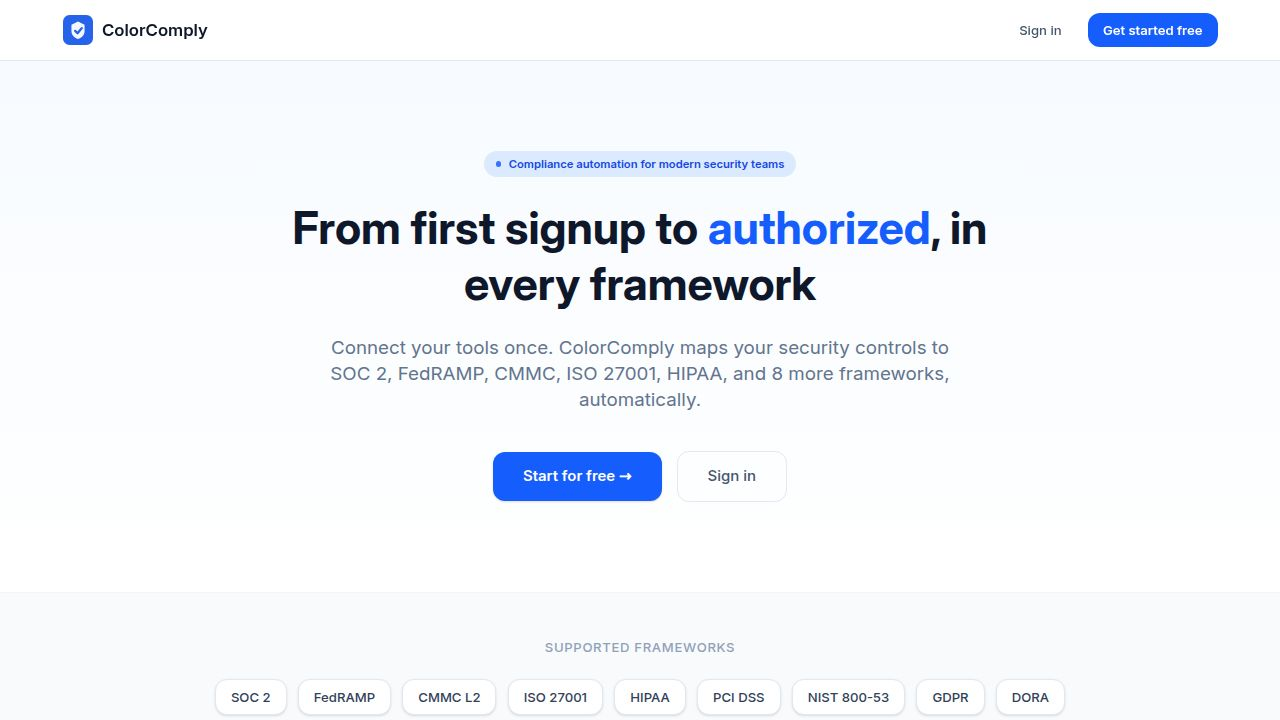
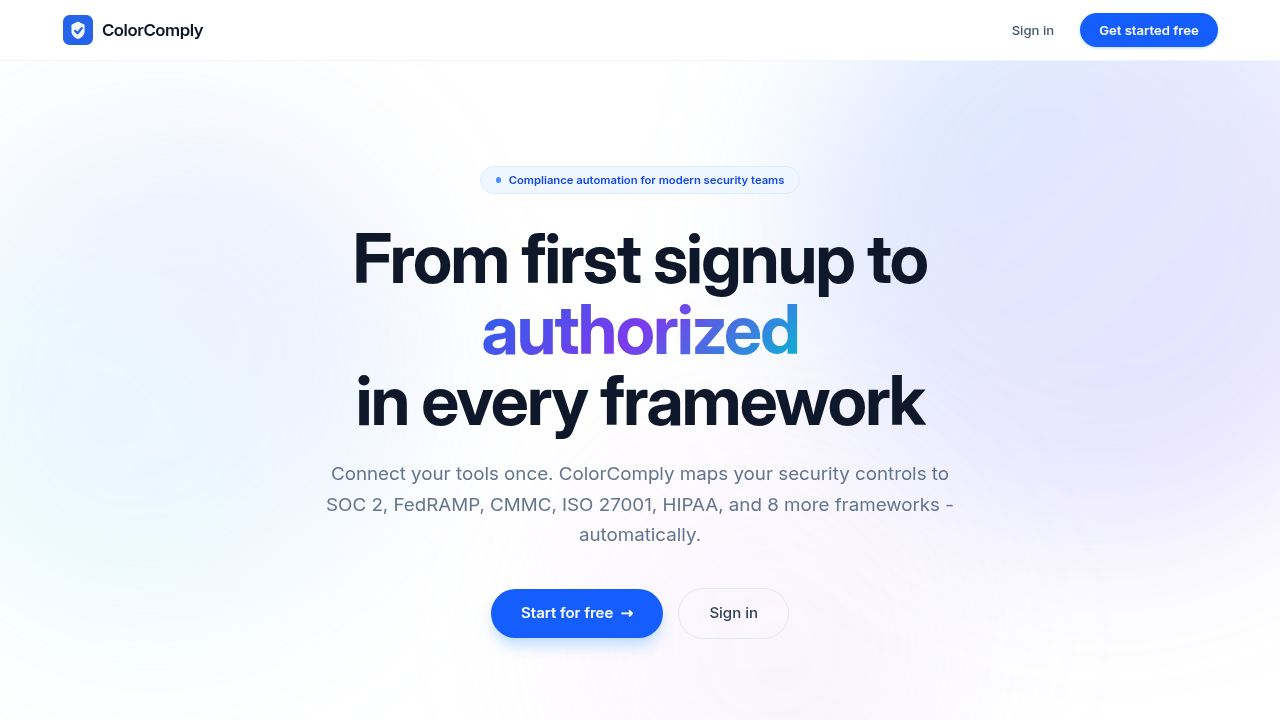
Fix several issues and add audit logging for user actions
Implement audit logging, resolve onboarding slug collisions, fix modal overflow, and ensure action buttons are always visible.

Replit-Commit-Author: Agent
Replit-Commit-Session-Id: 5754d031-6f22-4893-a362-1198e1f63aae
Replit-Commit-Checkpoint-Type: full_checkpoint
Replit-Commit-Event-Id: 7d94475b-c779-47f6-8260-72fbbe3e3df7
Replit-Commit-Screenshot-Url: https://storage.googleapis.com/screenshot-production-us-central1/ffbd1142-6680-499c-a0f6-ed5e165160b3/5754d031-6f22-4893-a362-1198e1f63aae/FB70Rc8
Replit-Helium-Checkpoint-Created: true

diff --git a/artifacts/api-server/src/modules/orgs/orgs.service.ts b/artifacts/api-server/src/modules/orgs/orgs.service.ts
@@ -1,4 +1,4 @@
-import { Injectable, NotFoundException } from "@nestjs/common";
+import { Injectable, NotFoundException, ConflictException } from "@nestjs/common";
 import {
   db,
   organizationsTable,
@@ -28,11 +28,33 @@ export class OrgsService {
     email?: string; firstName?: string; lastName?: string;
   }) {
     const { name, industry, size, website, email, firstName, lastName } = body;
-    const slug = name.toLowerCase().replace(/[^a-z0-9]+/g, "-").replace(/^-|-$/g, "");
+    const baseSlug = name.toLowerCase().replace(/[^a-z0-9]+/g, "-").replace(/^-|-$/g, "");
 
-    const [org] = await db.insert(organizationsTable).values({
-      name, slug, industry, size, website, onboardingStep: 2,
-    }).returning();
+    // Ensure slug uniqueness by appending a random suffix on collision
+    let slug = baseSlug;
+    let org: typeof organizationsTable.$inferSelect | undefined;
+    for (let attempt = 0; attempt < 5; attempt++) {
+      if (attempt > 0) {
+        const suffix = Math.random().toString(36).slice(2, 6);
+        slug = `${baseSlug}-${suffix}`;
+      }
+      try {
+        const result = await db.insert(organizationsTable).values({
+          name, slug, industry, size, website, onboardingStep: 2,
+        }).returning();
+        org = result[0];
+        break;
+      } catch (err: any) {
+        if (err?.code === "23505" && err?.constraint?.includes("slug")) {
+          continue; // retry with new suffix
+        }
+        throw err;
+      }
+    }
+
+    if (!org) {
+      throw new ConflictException("Could not generate a unique organization identifier. Please try a slightly different company name.");
+    }
 
     await db.insert(orgMembersTable).values({
       orgId: org.id, clerkUserId, email: email ?? "",

diff --git a/artifacts/api-server/src/lib/audit-log.ts b/artifacts/api-server/src/lib/audit-log.ts
@@ -1,0 +1,25 @@
+import { db, orgAuditLogTable } from "@workspace/db";
+
+export async function writeAuditLog(
+  orgId: number,
+  action: string,
+  resource: string,
+  resourceId?: string | null,
+  details?: unknown,
+  actorId?: string,
+  actorEmail?: string,
+): Promise<void> {
+  try {
+    await db.insert(orgAuditLogTable).values({
+      orgId,
+      action,
+      resource,
+      resourceId: resourceId ?? undefined,
+      details: details ?? undefined,
+      actorId: actorId ?? undefined,
+      actorEmail: actorEmail ?? undefined,
+    });
+  } catch {
+    // Audit log writes are best-effort - never block main operations
+  }
+}

diff --git a/artifacts/api-server/src/modules/policies/policies.service.ts b/artifacts/api-server/src/modules/policies/policies.service.ts
@@ -1,6 +1,7 @@
 import { Injectable } from "@nestjs/common";
 import { db, orgPoliciesTable, orgPolicyAcknowledgmentsTable, orgPeopleTable } from "@workspace/db";
 import { eq, and } from "drizzle-orm";
+import { writeAuditLog } from "../../lib/audit-log.js";
 
 export const POLICY_TEMPLATES = [
   { key: "acceptable-use", title: "Acceptable Use Policy", category: "security", description: "Defines acceptable use of company systems, data, and resources." },
@@ -65,6 +66,7 @@ export class PoliciesService {
 
   async createPolicy(orgId: number, body: Record<string, unknown>) {
     const [policy] = await db.insert(orgPoliciesTable).values({ orgId, ...body } as any).returning();
+    await writeAuditLog(orgId, "policy.created", "policy", String(policy.id), { title: policy.title, status: policy.status });
     return { policy };
   }
 
@@ -78,6 +80,8 @@ export class PoliciesService {
       .set(updates)
       .where(and(eq(orgPoliciesTable.id, id), eq(orgPoliciesTable.orgId, orgId)))
       .returning();
+    const action = body.status === "published" ? "policy.published" : "policy.updated";
+    await writeAuditLog(orgId, action, "policy", String(id), { title: policy?.title, status: policy?.status });
     return { policy };
   }
 
@@ -85,6 +89,7 @@ export class PoliciesService {
     await db
       .delete(orgPoliciesTable)
       .where(and(eq(orgPoliciesTable.id, id), eq(orgPoliciesTable.orgId, orgId)));
+    await writeAuditLog(orgId, "policy.deleted", "policy", String(id));
     return { success: true };
   }
 
@@ -126,6 +131,7 @@ export class PoliciesService {
       personId: body.personId,
       ipAddress: body.ipAddress,
     }).returning();
+    await writeAuditLog(orgId, "policy.acknowledged", "policy", String(policyId), { personId: body.personId });
     return { acknowledgment: ack, alreadyAcknowledged: false };
   }
 
@@ -137,6 +143,7 @@ export class PoliciesService {
     const people = await db.query.orgPeopleTable.findMany({
       where: and(eq(orgPeopleTable.orgId, orgId), eq(orgPeopleTable.active, true)),
     });
+    await writeAuditLog(orgId, "policy.ack_requested", "policy", String(policyId), { title: policy.title, recipients: people.length });
     return { requested: people.length, policy };
   }
 }

diff --git a/artifacts/api-server/src/modules/people/people.service.ts b/artifacts/api-server/src/modules/people/people.service.ts
@@ -1,6 +1,7 @@
 import { Injectable } from "@nestjs/common";
 import { db, orgPeopleTable } from "@workspace/db";
 import { eq, and } from "drizzle-orm";
+import { writeAuditLog } from "../../lib/audit-log.js";
 
 @Injectable()
 export class PeopleService {
@@ -14,6 +15,7 @@ export class PeopleService {
 
   async addPerson(orgId: number, body: Record<string, unknown>) {
     const [person] = await db.insert(orgPeopleTable).values({ orgId, ...body } as any).returning();
+    await writeAuditLog(orgId, "person.created", "person", String(person.id), { name: [person.firstName, person.lastName].filter(Boolean).join(" ") });
     return { person };
   }
 
@@ -23,6 +25,7 @@ export class PeopleService {
       .set({ ...body, updatedAt: new Date() })
       .where(and(eq(orgPeopleTable.id, id), eq(orgPeopleTable.orgId, orgId)))
       .returning();
+    await writeAuditLog(orgId, "person.updated", "person", String(id), { name: [person?.firstName, person?.lastName].filter(Boolean).join(" ") });
     return { person };
   }
 
@@ -30,6 +33,7 @@ export class PeopleService {
     await db
       .delete(orgPeopleTable)
       .where(and(eq(orgPeopleTable.id, id), eq(orgPeopleTable.orgId, orgId)));
+    await writeAuditLog(orgId, "person.deleted", "person", String(id));
     return { success: true };
   }
 }

diff --git a/artifacts/api-server/src/modules/vendors/vendors.service.ts b/artifacts/api-server/src/modules/vendors/vendors.service.ts
@@ -1,6 +1,7 @@
 import { Injectable } from "@nestjs/common";
 import { db, orgVendorsTable } from "@workspace/db";
 import { eq, and } from "drizzle-orm";
+import { writeAuditLog } from "../../lib/audit-log.js";
 
 @Injectable()
 export class VendorsService {
@@ -14,6 +15,7 @@ export class VendorsService {
 
   async addVendor(orgId: number, body: Record<string, unknown>) {
     const [vendor] = await db.insert(orgVendorsTable).values({ orgId, ...body } as any).returning();
+    await writeAuditLog(orgId, "vendor.created", "vendor", String(vendor.id), { name: vendor.name });
     return { vendor };
   }
 
@@ -27,6 +29,7 @@ export class VendorsService {
       .set(updates)
       .where(and(eq(orgVendorsTable.id, id), eq(orgVendorsTable.orgId, orgId)))
       .returning();
+    await writeAuditLog(orgId, "vendor.updated", "vendor", String(id), { name: vendor?.name });
     return { vendor };
   }
 
@@ -34,6 +37,7 @@ export class VendorsService {
     await db
       .delete(orgVendorsTable)
       .where(and(eq(orgVendorsTable.id, id), eq(orgVendorsTable.orgId, orgId)));
+    await writeAuditLog(orgId, "vendor.deleted", "vendor", String(id));
     return { success: true };
   }
 }

diff --git a/artifacts/c2s-ciop/src/pages/POAM.tsx b/artifacts/c2s-ciop/src/pages/POAM.tsx
@@ -206,7 +206,7 @@ export default function POAM() {
                 <svg className="h-4 w-4" fill="none" viewBox="0 0 24 24" stroke="currentColor" strokeWidth={2.5}><path strokeLinecap="round" strokeLinejoin="round" d="M6 18L18 6M6 6l12 12" /></svg>
               </button>
             </div>
-            <div className="p-6 space-y-4 max-h-[60vh] overflow-y-auto">
+            <div className="p-6 space-y-4 overflow-y-auto" style={{ maxHeight: "calc(90vh - 160px)" }}>
               {[
                 { label: "Title *", field: "title", type: "text", placeholder: "MFA not enforced for admin accounts" },
                 { label: "Weakness *", field: "weakness", type: "text", placeholder: "Authentication weakness" },

diff --git a/artifacts/c2s-ciop/src/pages/People.tsx b/artifacts/c2s-ciop/src/pages/People.tsx
@@ -191,7 +191,7 @@ export default function People() {
                     ) : <span className="text-slate-300 text-xs">-</span>}
                   </td>
                   <td className="px-5 py-3.5">
-                    <div className="flex items-center gap-1 opacity-0 group-hover:opacity-100 transition-opacity">
+                    <div className="flex items-center gap-1">
                       <button onClick={() => openEdit(p)} className="p-1.5 text-slate-400 hover:text-slate-700 hover:bg-slate-100 rounded-md transition-colors">
                         <svg className="h-3.5 w-3.5" fill="none" viewBox="0 0 24 24" stroke="currentColor" strokeWidth={2}><path strokeLinecap="round" strokeLinejoin="round" d="M11 5H6a2 2 0 00-2 2v11a2 2 0 002 2h11a2 2 0 002-2v-5m-1.414-9.414a2 2 0 112.828 2.828L11.828 15H9v-2.828l8.586-8.586z" /></svg>
                       </button>

diff --git a/artifacts/c2s-ciop/src/pages/Vendors.tsx b/artifacts/c2s-ciop/src/pages/Vendors.tsx
@@ -184,7 +184,7 @@ export default function Vendors() {
                       <span className="text-xs text-slate-400">{v.lastAssessedAt ? new Date(v.lastAssessedAt).toLocaleDateString() : "Never"}</span>
                     </td>
                     <td className="px-5 py-3.5">
-                      <div className="flex items-center gap-1 opacity-0 group-hover:opacity-100 transition-opacity">
+                      <div className="flex items-center gap-1">
                         <button onClick={() => openEdit(v)} className="p-1.5 text-slate-400 hover:text-slate-700 hover:bg-slate-100 rounded-md transition-colors">
                           <svg className="h-3.5 w-3.5" fill="none" viewBox="0 0 24 24" stroke="currentColor" strokeWidth={2}><path strokeLinecap="round" strokeLinejoin="round" d="M11 5H6a2 2 0 00-2 2v11a2 2 0 002 2h11a2 2 0 002-2v-5m-1.414-9.414a2 2 0 112.828 2.828L11.828 15H9v-2.828l8.586-8.586z" /></svg>
                         </button>